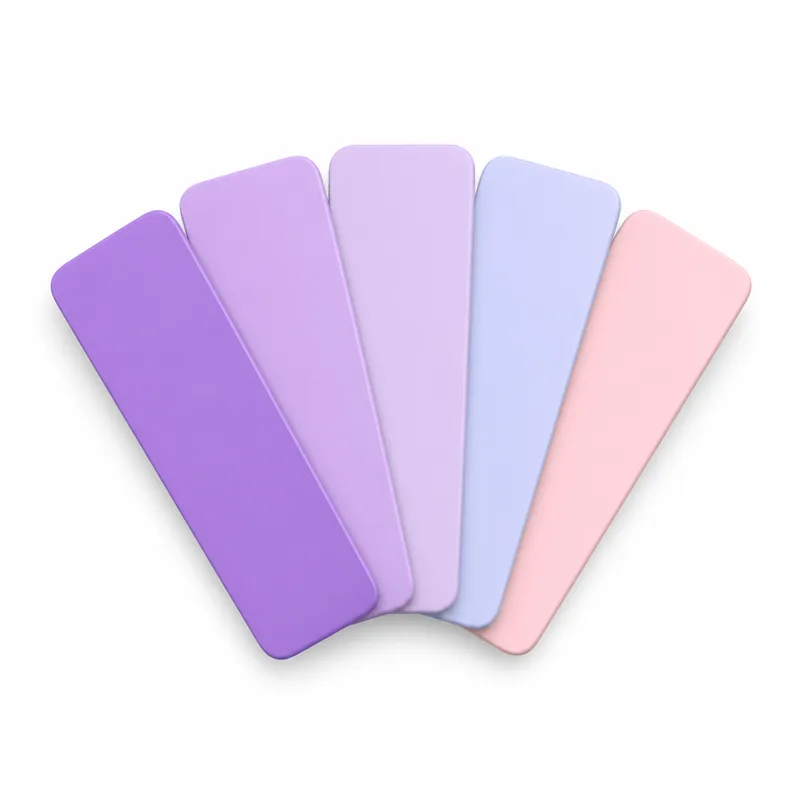
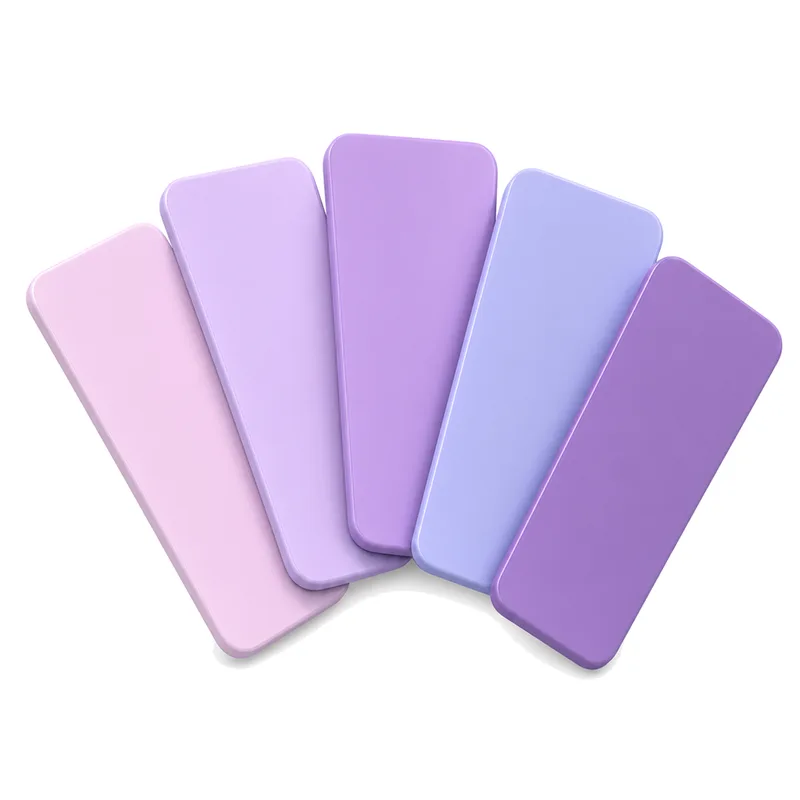
fix(qa2): Colors 유기적 부채·Recipes 볼륨 파노라마 재생성 + 카드 hover 확대 반응
hover:scale 1.015~1.02 + shadow-md(motion-reduce 존중), Recipes 이미지 영역 h-72.
검증: 빌드 CSS scale 유틸 존재·hover 시 computed scale 1.015 실측.

diff --git a/examples/ui-vocabulary-site/src/components/get-started-page.tsx b/examples/ui-vocabulary-site/src/components/get-started-page.tsx
@@ -28,7 +28,7 @@ export function GetStartedPage({ onNavigate }: { onNavigate: (destination: HomeP
 
         <div className="grid gap-6 lg:grid-cols-[1.55fr_1fr]">
           <button
-            className="group overflow-hidden rounded-2xl border bg-card p-8 pb-0 text-left shadow-sm transition hover:border-foreground/25"
+            className="group overflow-hidden rounded-2xl border bg-card p-8 pb-0 text-left shadow-sm transition-all duration-200 hover:scale-[1.015] hover:border-foreground/25 hover:shadow-md motion-reduce:transform-none"
             type="button"
             onClick={() => onNavigate({ page: "plus", filter: "nav:plus-marketing" })}
           >
@@ -43,7 +43,7 @@ export function GetStartedPage({ onNavigate }: { onNavigate: (destination: HomeP
           </button>
 
           <button
-            className="group flex flex-col rounded-2xl border bg-card p-8 text-left shadow-sm transition hover:border-foreground/25"
+            className="group flex flex-col rounded-2xl border bg-card p-8 text-left shadow-sm transition-all duration-200 hover:scale-[1.015] hover:border-foreground/25 hover:shadow-md motion-reduce:transform-none"
             type="button"
             onClick={() => onNavigate({ page: "colors" })}
           >
@@ -59,7 +59,7 @@ export function GetStartedPage({ onNavigate }: { onNavigate: (destination: HomeP
         </div>
 
         <button
-          className="group grid gap-8 overflow-hidden rounded-2xl border bg-card p-8 text-left shadow-sm transition hover:border-foreground/25 lg:grid-cols-[1fr_1.1fr]"
+          className="group grid gap-8 overflow-hidden rounded-2xl border bg-card p-8 text-left shadow-sm transition-all duration-200 hover:scale-[1.01] hover:border-foreground/25 hover:shadow-md motion-reduce:transform-none lg:grid-cols-[1fr_1.1fr]"
           type="button"
           onClick={() => onNavigate({ page: "recipes" })}
         >
@@ -78,7 +78,7 @@ export function GetStartedPage({ onNavigate }: { onNavigate: (destination: HomeP
         <h2 className="mt-10 text-2xl font-semibold text-foreground">More ways in</h2>
         <div className="grid gap-6 md:grid-cols-3">
           <button
-            className="group flex flex-col gap-4 rounded-2xl border bg-card p-7 text-left shadow-sm transition hover:border-foreground/25"
+            className="group flex flex-col gap-4 rounded-2xl border bg-card p-7 text-left shadow-sm transition-all duration-200 hover:scale-[1.02] hover:border-foreground/25 hover:shadow-md motion-reduce:transform-none"
             type="button"
             onClick={() => onNavigate({ page: "docs", filter: "nav:docs-all" })}
           >

diff --git a/examples/ui-vocabulary-site/src/components/get-started-previews.tsx b/examples/ui-vocabulary-site/src/components/get-started-previews.tsx
@@ -32,7 +32,7 @@ export function RecipesCollage() {
     <div aria-hidden="true" className="pointer-events-none select-none lg:py-2">
       <img
         alt=""
-        className="h-56 w-full object-contain"
+        className="h-72 w-full object-contain"
         src="/assets/get-started/recipes.webp"
       />
     </div>
